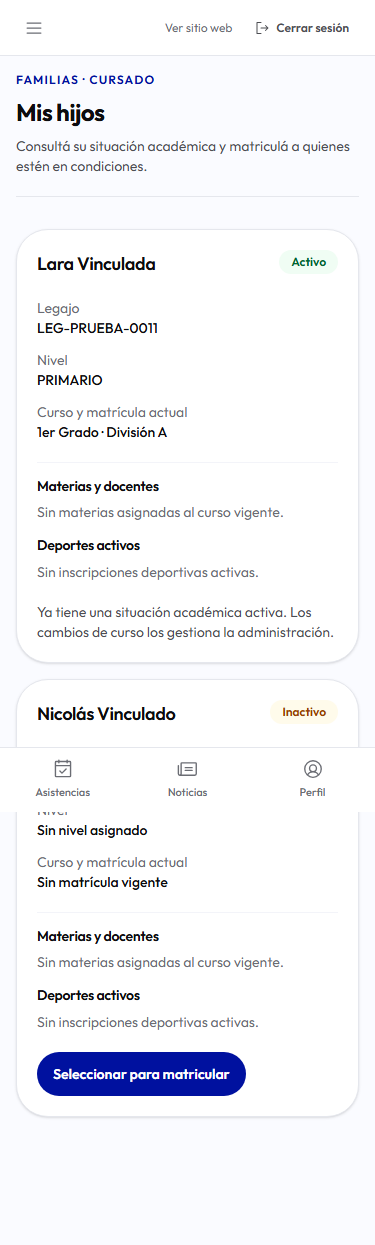
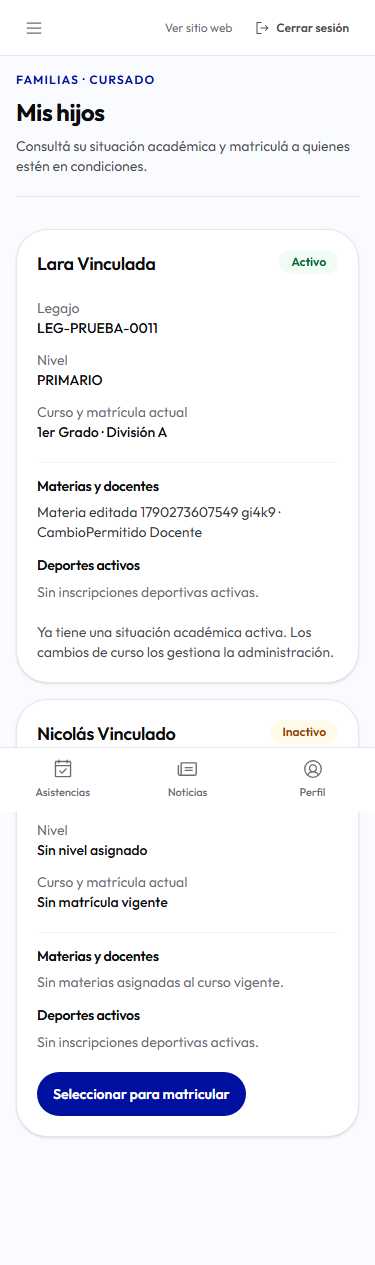
fix(seguridad): exigir rol padre vigente en políticas parentales

diff --git a/tests/hijos-auth.spec.ts b/tests/hijos-auth.spec.ts
@@ -1,4 +1,5 @@
 import { test, expect, request as crearContexto } from '@playwright/test'
+import { execFileSync } from 'node:child_process'
 import fs from 'node:fs'
 import path from 'node:path'
 
@@ -54,7 +55,23 @@ test.describe('PADRE autenticado', () => {
     await expect(dialogo.getByRole('heading', { name: 'Confirmar matrícula' })).toBeVisible()
     await expect(dialogo.getByText(/Después no podrás cambiar el curso/)).toBeVisible()
     await captura(page, '04-confirmacion')
+    let registrarRetencion: () => void = () => {}
+    let liberarSolicitud: () => void = () => {}
+    const solicitudRetenida = new Promise<void>((resolve) => { registrarRetencion = resolve })
+    const continuarSolicitud = new Promise<void>((resolve) => { liberarSolicitud = resolve })
+    await page.route('**/api/hijos/*/matricula', async (route) => {
+      registrarRetencion()
+      await continuarSolicitud
+      await route.continue()
+    })
     await dialogo.getByRole('button', { name: 'Confirmar matrícula' }).click()
+    try {
+      await solicitudRetenida
+      await expect(page.getByRole('status', { name: 'Estado de la matrícula' })).toContainText('Enviando')
+      await captura(page, '04b-envio-autenticado')
+    } finally {
+      liberarSolicitud()
+    }
     await expect(page.getByRole('status', { name: 'Estado de la matrícula' })).toContainText('confirmó')
     await captura(page, '05-exito')
     await page.reload()
@@ -95,9 +112,32 @@ test.describe('PADRE autenticado', () => {
       request.post(`/api/hijos/${hijo.id}/matricula`, { data: { curso_id: cursoId } }),
     ])
     expect(resultados.map((respuesta) => respuesta.status()).sort()).toEqual([201, 409])
+    const exitosa = resultados.find((respuesta) => respuesta.status() === 201)
+    if (!exitosa) throw new Error('Ninguna solicitud confirmó la matrícula.')
+    const confirmacion = await exitosa.json()
+    expect(confirmacion.matricula_id).toMatch(/^[0-9a-f-]{36}$/i)
     const despues = await request.get(`/api/hijos/${hijo.id}`)
     expect(despues.status()).toBe(200)
-    expect((await despues.json()).hijo.estado).toBe('ACTIVO')
+    const situacion = (await despues.json()).hijo
+    expect(situacion.estado).toBe('ACTIVO')
+    expect(situacion.matricula_id).toBe(confirmacion.matricula_id)
+    const curso = datos.cursos.find((item: { id: string }) => item.id === cursoId)
+    expect(situacion.curso_denominacion).toBe(curso.denominacion)
+    expect(situacion.curso_division).toBe(curso.division)
+    expect(situacion.nivel_nombre).toBe(curso.nivel.nombre)
+
+    // Consulta de solo lectura contra el contenedor descartable: el endpoint
+    // parental proyecta la matrícula vigente, no expone el historial completo.
+    if (process.env.EPT_SUPABASE_LOCAL !== '1') throw new Error('Se requiere la base local descartable.')
+    expect(hijo.id).toMatch(/^[0-9a-f-]{36}$/i)
+    const contenedor = process.env.EPT_SUPABASE_DB_CONTAINER ?? 'supabase_db_educar-para-transformar'
+    const filas = execFileSync('docker', [
+      'exec', '-i', contenedor, 'psql', '-X', '-q', '-t', '-A', '-U', 'postgres', '-d', 'postgres',
+      '-v', 'ON_ERROR_STOP=1', '-c',
+      `SELECT COALESCE(json_agg(json_build_object('id', id, 'curso_id', curso_id, 'fecha_cierre', fecha_cierre)), '[]'::json) FROM public.matriculas WHERE alumno_id = '${hijo.id}';`,
+    ], { encoding: 'utf8' }).trim()
+    const matriculas = JSON.parse(filas) as { id: string; curso_id: string; fecha_cierre: string | null }[]
+    expect(matriculas).toEqual([{ id: confirmacion.matricula_id, curso_id: cursoId, fecha_cierre: null }])
   })
 })
 

diff --git a/docs/evidence/EPT-13.md b/docs/evidence/EPT-13.md
@@ -26,7 +26,7 @@ Fuera de alcance: nuevas funciones administrativas de materias/deportes, cupos a
 | EPT-45 | Consulta aislada de hijos, matrícula, materia/docente y deporte | RLS consolidada, vista `security_invoker`, `consultar_detalle_hijo`, API GET |
 | EPT-46 | Selección, resumen, confirmación y activación atómica | UI `/dashboard/hijos`, POST y RPC `matricular_hijo` |
 | EPT-47 | Un solo curso vigente, duplicado, ajeno, rechazos de escritura | Bloqueo de alumno, índice único parcial de 008, SQL y POST concurrentes |
-| EPT-48 | Navegador real, API, SQL, tres perfiles visuales | Playwright autenticado y fixtures; 27 PNG |
+| EPT-48 | Navegador real, API, SQL, tres perfiles visuales | Playwright autenticado y fixtures; 28 PNG |
 | EPT-49 | Evidencia, seguridad, pruebas y retrospectiva | Este documento; Jira lo coordina el orquestador |
 
 Los criterios Jira quedan trazados así: (1) listado filtrado en PostgreSQL; (2) cursos activos listados y revalidados por trigger; (3) índice único de matrícula vigente; (4) estado y duplicado rechazados; (5) no enumeración de UUID ajeno; (6) visibilidad parental y administrativa. RF13/RF14/RF15/RF19 no se resuelven por ocultamiento visual: la base es la autoridad.
@@ -52,6 +52,7 @@ Los criterios Jira quedan trazados así: (1) listado filtrado en PostgreSQL; (2)
 |---|---|---|---|
 | PADRE vinculado | Solo sus hijos, matrícula vigente, materias del curso vigente y deporte ACTIVO | Sí, únicamente hijo apto y curso activo | No |
 | PADRE no vinculado | Ninguna fila; UUID existente e inexistente reciben respuesta opaca | No | No |
+| Ex-PADRE con vínculo saliente histórico y rol PERSONAL | Ningún legajo, matrícula, perfil del hijo, asistencia ni proyección académica por ese vínculo | No | No, tampoco alta/baja de inscripción deportiva heredada |
 | DIRECTOR | Conserva lectura administrativa académica | No por RPC parental; usa funciones académicas existentes | Solo según administración previa |
 | ESTUDIANTE | Conserva lectura de su propio legajo e historial | No por RPC parental | No |
 | DOCENTE, PERSONAL, sin perfil | No por endpoints parentales | No | No |
@@ -61,7 +62,7 @@ Amenazas cubiertas: falsificación de `padre_id` o estado, acceso a UUID ajeno, 
 
 ## 4. Migración, objetos, privilegios y rendimiento
 
-`padres_hijos` se conserva sin cambios. La migración 016 reemplaza, en cada una de `alumnos` y `matriculas`, dos políticas SELECT anteriores por una política compuesta: exactamente los predicados previos de DIRECTOR y ESTUDIANTE más `mis_hijos_ids()` del PADRE. Esto evita dos WARN nuevos de políticas permisivas múltiples sin ampliar permisos. No introduce RLS recursiva: los ayudantes existentes consultan el perfil y el vínculo bajo su contrato anterior.
+`padres_hijos` se conserva sin cambios. La migración 016 reemplaza, en cada una de `alumnos` y `matriculas`, dos políticas SELECT anteriores por una política compuesta: exactamente los predicados previos de DIRECTOR y ESTUDIANTE más **rol vigente PADRE y** `mis_hijos_ids()` conjuntamente. Esto evita dos WARN nuevos de políticas permisivas múltiples sin ampliar permisos. Además, sustituye hacia adelante cuatro políticas parentales de 011 —SELECT de `perfiles` y `asistencias`, INSERT y DELETE de `inscripciones`— para exigir el mismo rol PADRE vigente sin alterar sus predicados de vínculo ni las políticas de otros actores. Esta condición adicional es necesaria: `mis_hijos_ids()` de 011 verifica la identidad, no el rol, y un vínculo saliente histórico puede sobrevivir a un cambio de rol. No introduce RLS recursiva: los ayudantes existentes consultan el perfil y el vínculo bajo su contrato anterior.
 
 RLS está habilitada en ambas tablas, pero no forzada para el propietario (`relforcerowsecurity=false`), igual que en 008: las RPC `SECURITY DEFINER` necesitan efectuar la transacción con autoridad controlada, mientras que todos los roles cliente continúan sujetos a políticas y grants. Activar FORCE en esta unidad alteraría funciones administrativas previas; no se hizo.
 
@@ -86,9 +87,9 @@ Todos los comandos se ejecutaron en `E:\Escritorio\codigo\MetodologiaTPI-ept13` 
 | Comando o comprobación | Resultado |
 |---|---|
 | `npx.cmd supabase start` | exit 0; sin registrar secretos de su salida |
-| `npx.cmd supabase db reset --local` | exit 0; migraciones 001–016, repetido tras consolidar RLS |
+| `npx.cmd supabase db reset --local` | exit 0; migraciones 001–016, repetido obligatoriamente después de la corrección final de seis políticas parentales |
 | `npx.cmd supabase migration list --local` | exit 0; 001–016 local/remoto local coinciden |
-| SQL `inscripcion_hijos_rls.sql` | exit 0, termina en ROLLBACK; vínculo, otro padre, no perfil, rol, anónimo, curso, estado, duplicado, grants, detalle y Director |
+| SQL `inscripcion_hijos_rls.sql` | exit 0, termina en ROLLBACK; vínculo, otro padre, **ex-PADRE con vínculo saliente y rol PERSONAL** sin lectura de alumno/matrícula/vistas/perfil/asistencia ni alta/baja de inscripción, restauración del rol, no perfil, anónimo, curso, estado, duplicado, grants, detalle y Director |
 | SQL `alumnos_academicos_rls.sql` | exit 0; 69 aserciones OK |
 | SQL `cursos_rls.sql` | exit 0; 39 OK |
 | SQL `usuarios_alta_atomica.sql` | exit 0; 23 OK |
@@ -97,13 +98,14 @@ Todos los comandos se ejecutaron en `E:\Escritorio\codigo\MetodologiaTPI-ept13` 
 | `node supabase/tests/alumnos_academicos_concurrencia.mjs` | exit 0; 8 carreras/casos |
 | `node supabase/tests/tipos-generados.mjs --escribir` y verificación sin flag | exit 0 ambos; salida determinista y tipos reconciliados |
 | `npx.cmd supabase db lint --local --schema public,app_private --level warning --fail-on error` | exit 0, sin errores de esquema |
-| `npx.cmd supabase db advisors --local --type all --level info --fail-on none --output-format json` | exit 0; 12 INFO, 10 WARN tras consolidación, **0 WARN nuevos** |
+| `npx.cmd supabase db advisors --local --type all --level info --fail-on none --output-format json` | exit 0; 12 INFO, 10 WARN tras la corrección de rol en base recién reiniciada, **0 WARN nuevos** |
 | `npx.cmd tsc --noEmit --incremental false` | exit 0 |
 | `npm.cmd run build` | exit 0, Next.js 16.3.3 |
 | `node supabase/tests/harness_produccion.mjs` | exit 0; banco `/pruebas-ui/hijos` 404 exacto |
 | `npm.cmd run test:e2e` | exit 0; 359 passed, 1 skipped |
 | `EPT_SUPABASE_LOCAL=1 npx.cmd playwright test --config=playwright.config.ts --reporter=dot` | exit 0; 595 passed, 1 skipped **después** de consolidar RLS (8,8 min) |
-| `EPT_SUPABASE_LOCAL=1 npx.cmd playwright test tests/hijos-auth.spec.ts --project=chromium-padre --project=chromium-padre-segundo --reporter=dot` | exit 0; 18 passed tras agregar y comprobar la captura administrativa auténtica |
+| `EPT_SUPABASE_LOCAL=1 npx.cmd playwright test tests/hijos-auth.spec.ts --project=chromium-padre --project=chromium-padre-segundo --reporter=dot` | exit 0; 18 passed (30,9 s) tras la corrección final de RLS, con conteo real de matrículas y captura auténtica de envío |
+| `EPT_SUPABASE_LOCAL=1 npx.cmd playwright test --config=playwright.config.ts --retries=0 --reporter=dot` | exit 0; **595 passed, 1 skipped, 0 reintentos** (9,4 min), después del reset y corrección final de seis ramas RLS |
 | ESLint focalizado sobre todos los TS/TSX modificados | exit 0 |
 | `npm.cmd run lint -- --no-cache` | exit 1; 15 errores y 108 avisos del conjunto preexistente, cero errores nuevos frente a base verificada |
 | `npm.cmd audit --json` | exit 1 por 6 avisos no críticos restantes; 0 críticos y ninguna entrada `next` |
@@ -111,25 +113,27 @@ Todos los comandos se ejecutaron en `E:\Escritorio\codigo\MetodologiaTPI-ept13` 
 | `git diff --check` | exit 0; sin errores de espacios |
 | `rg` de secretos y atribución en archivos nuevos | exit 1 (sin coincidencias); el setup local usa credenciales sintéticas fuera de la aplicación productiva |
 
-La prueba real de concurrencia parental envía dos POST simultáneos al mismo hijo: una respuesta 201 y una 409, exactamente una matrícula y estado ACTIVO al releer. Los rechazos SQL ocurren en subtransacciones dentro de un ROLLBACK; se comprueban estado y número de matrículas sin efectos parciales. El navegador autenticado cubre padre 1, padre 2, Director, Estudiante, Docente, Personal, anónimo y sin perfil, además de confirmación, persistencia tras recarga, foco, móvil, mensajes y ausencia de controles destructivos.
+La prueba real de concurrencia parental envía dos POST simultáneos al mismo hijo: una respuesta 201 y una 409. Relee la API y compara estado ACTIVO, ID de matrícula, curso, división y nivel con la confirmación; además, consulta **en modo solo lectura el contenedor PostgreSQL local descartable** para exigir exactamente una fila de matrícula, con ese ID y ese curso, sin cierre. No usa `service_role` ni accede a una base remota. Los rechazos SQL ocurren en subtransacciones dentro de un ROLLBACK; se comprueban estado y número de matrículas sin efectos parciales. El navegador autenticado cubre padre 1, padre 2, Director, Estudiante, Docente, Personal, anónimo y sin perfil, además de confirmación, persistencia tras recarga, foco, móvil, mensajes y ausencia de controles destructivos.
 
 ### Fallos preexistentes y seguridad de dependencias
 
 El lint global de la línea base descartable informó 15 errores/109 avisos; el candidato 15/108, sin nueva ubicación/regla de error. El primer intento de `deportes_rls.sql` después de la suite autenticada encontró grupos E2E residuales; se reinició la base local y la prueba pasó 59/59: no era un defecto del candidato. La primera ejecución de `usuarios_alta_atomica.sql` con `postgres` fue inválida para ese arnés; repetida con el superusuario local `supabase_admin`, pasó 23/23. Estos intentos fallidos no se ocultan.
 
+En la primera repetición global tras la corrección del rol (exit 0, 594 aprobadas, 1 omitida, 1 flaky), `alumnos-contraste.spec.ts:364` falló en el primer intento de medición de la cuarta línea y pasó en el reintento. No se modificó esa auditoría ajena a EPT-13. La repetición focalizada `npx.cmd playwright test tests/alumnos-contraste.spec.ts --project=chromium --grep 'mide todas las líneas' --repeat-each=3 --retries=0 --reporter=list` pasó 3/3, exit 0. La suite global **final**, ejecutada una sola vez sobre los bytes corregidos y con reintentos desactivados, pasó 595/595 y mantuvo una omisión declarada.
+
 `npm audit` sobre Next 16.2.5 señaló las vulnerabilidades críticas `GHSA-p293-qw3h-jr36` (RCE en servidor Windows) y `GHSA-2xp9-vwfh-vxw4` (RCE vía AVIF). Con autorización explícita se actualizó `next` y `eslint-config-next` a 16.3.3. `npm audit --json` posterior: **0 críticas**, 4 altas, 1 moderada, 1 baja; ninguna entrada `next`. `npm audit --omit=dev --audit-level=critical` sale 0 pero informa dos vulnerabilidades no críticas de dependencias transitivas (`ws` alta, `baseline-browser-mapping` moderada), fuera de la ampliación autorizada. Requieren triage posterior; no se declara la cadena libre de riesgo.
 
-Los advisors restantes (10 WARN) son anteriores a 016: uno `auth_rls_initplan` en `perfiles`, cinco `multiple_permissive_policies` en `asistencias`, `inscripciones`, `inscripciones_servicios` y `perfiles`, dos `function_search_path_mutable` heredados y dos `rls_policy_always_true` de inserción pública heredada. Los INFO del estado recién reiniciado son 2 FK sin índice y 10 índices sin uso observado; el conteo de estos últimos fluctúa al correr pruebas (en una consulta posterior: 7 índices sin uso, total 9 INFO). Antes de consolidar RLS aparecían dos WARN adicionales en `alumnos` y `matriculas`; ya no aparecen. Ningún aviso nuevo permanece.
+Los advisors restantes (10 WARN) son anteriores a 016: uno `auth_rls_initplan` en `perfiles`, cinco `multiple_permissive_policies` en `asistencias`, `inscripciones`, `inscripciones_servicios` y `perfiles`, dos `function_search_path_mutable` heredados y dos `rls_policy_always_true` de inserción pública heredada. Los INFO del estado recién reiniciado son 2 FK sin índice y 10 índices sin uso observado; el conteo de estos últimos fluctúa al correr pruebas (en una consulta anterior: 7 índices sin uso, total 9 INFO). Antes de consolidar RLS aparecían dos WARN adicionales en `alumnos` y `matriculas`; ya no aparecen. Los cinco WARN de políticas múltiples no son causados por 016: proceden de la superposición de políticas de otros actores en 011. Esta corrección acotada preserva esas políticas, modifica únicamente las cuatro ramas parentales y no amplía permisos. Ningún aviso nuevo permanece.
 
 ## 7. Capturas y privacidad
 
-Directorio: `docs/evidence/EPT-13/` (27 PNG). Las capturas `01-` a `07-` proceden de una sesión **PADRE autenticada por el formulario real**: escritorio, hijo apto, cursos, confirmación, éxito, recarga persistente y móvil 375 px. La `08-padre-sin-hijos.png` corresponde a un **segundo PADRE autenticado** sin vínculo, y `09-directora-matricula-visible.png` a la **DIRECTORA autenticada** en `/dashboard/alumnos` después de la matrícula. Estas nueve capturas demuestran autorización, operación, persistencia y visibilidad administrativa, no solo apariencia. Las 18 capturas `fixture-<perfil>-` cubren seis estados visuales en Chromium, Pixel 5 Chromium y iPhone 13 WebKit: carga, vacío, apto/activo, ausencia de cursos, error de dominio simulado y foco visible. Las fixtures **solo prueban presentación**. Todos los nombres, DNI y correos de pruebas son sintéticos; las capturas no incluyen secretos, tokens ni información productiva.
+Directorio: `docs/evidence/EPT-13/` (28 PNG). Las capturas `01-` a `07-` y `04b-envio-autenticado.png` proceden de una sesión **PADRE autenticada por el formulario real**: escritorio, hijo apto, cursos, confirmación, envío, éxito, recarga persistente y móvil 375 px. Para capturar el envío real, Playwright retiene temporalmente el POST autenticado, comprueba el estado «Enviando…», toma la imagen y libera la **misma petición**, que concluye exitosamente; no es un fixture ni una respuesta simulada. La `08-padre-sin-hijos.png` corresponde a un **segundo PADRE autenticado** sin vínculo, y `09-directora-matricula-visible.png` a la **DIRECTORA autenticada** en `/dashboard/alumnos` después de la matrícula. Estas diez capturas demuestran autorización, operación, persistencia y visibilidad administrativa, no solo apariencia. Las 18 capturas `fixture-<perfil>-` cubren seis estados visuales en Chromium, Pixel 5 Chromium y iPhone 13 WebKit: carga, vacío, apto/activo, ausencia de cursos, error de dominio simulado y foco visible. Las fixtures **solo prueban presentación**. Todos los nombres, DNI y correos de pruebas son sintéticos; las capturas no incluyen secretos, tokens ni información productiva.
 
 ## 8. Riesgos, reversión y retrospectiva
 
 Riesgo residual: avisos de dependencias transitivas no críticos; lint global preexistente; advisor heredado. El cambio de RLS, las RPC y la API se deben revisar como un único candidato: revertir parcialmente solo la UI dejaría una superficie incoherente. Antes de producción, un rollback de código necesita revertir la migración mediante otra migración hacia adelante que restaure las políticas SELECT de 008/009 y retire las dos RPC; **no** se borra ni revierte físicamente una matrícula ya creada. La reversión de Next.js a 16.2.5 reintroduciría dos críticas y no es aceptable.
 
-Retrospectiva: la tabla parental ya existía y recrearla habría sido destructivo; la autorización real debía cerrar tanto API como RLS. El estado ACTIVO y la matrícula vigente se validan por separado porque la corrupción no debe habilitar una segunda alta. El arnés de deportes de 015 exige horario incluso en fixtures. La limpieza E2E debe borrar primero `grupos_deportivos_horarios` para respetar FK RESTRICT. Próxima unidad dependiente: revisión humana de EPT-13 y de la evidencia, PR/merge autorizados y verificación posterior; no se inicia EPT-57 ni otras historias en esta unidad.
+Retrospectiva: la tabla parental ya existía y recrearla habría sido destructivo; la autorización real debía cerrar tanto API como RLS. Una revisión independiente detectó que el vínculo histórico no implica conservar el rol PADRE: las seis ramas parentales de lectura o escritura confiaban solo en `mis_hijos_ids()`, que no valida rol. La condición de rol vigente y la prueba de cambio de rol corrigen esa causa sin modificar la función de 011. Se usó PERSONAL como rol negativo porque DOCENTE conserva lectura legítima por políticas de personal y no aislaría el permiso parental. La misma revisión exigió medir la fila final de la carrera, no inferirla solo de 201/409, y capturar el envío en sesión real. El estado ACTIVO y la matrícula vigente se validan por separado porque la corrupción no debe habilitar una segunda alta. El arnés de deportes de 015 exige horario incluso en fixtures. La limpieza E2E debe borrar primero `grupos_deportivos_horarios` para respetar FK RESTRICT. Próxima unidad dependiente: revisión humana de EPT-13 y de la evidencia, PR/merge autorizados y verificación posterior; no se inicia EPT-57 ni otras historias en esta unidad.
 
 ## 9. Commits funcionales y entrega
 
@@ -138,5 +142,7 @@ Retrospectiva: la tabla parental ya existía y recrearla habría sido destructiv
 | 1 | `72f4a9a4a4c9c5b5530e4802a8dce48f82bb3e87` | Persistencia, RLS/RPC, tipos y prueba SQL |
 | 2 | `61758ba5012f1c0941c12ec88c46180ca3aa78a4` | API, interfaz, identidades y pruebas de navegador |
 | 3 | `17124dc4c76b1131df6c008bf9d46cb07a6bd1e5` | Corrección de Next.js y eslint-config-next |
+| 4 | `17d6df3bf1206a1231ad8f9dcf2d6c34611ff028` | Evidencia inicial y 27 capturas |
+| 5 | HEAD de esta corrección | Rol PADRE vigente en seis ramas RLS, pruebas reforzadas y captura real de envío |
 
-Este documento y las capturas forman el cuarto commit. No se realizó push, PR, merge, despliegue ni cambio en producción. EPT-13 permanece En curso hasta revisión e integración.
+El SHA completo del quinto commit se informa en la entrega, ya que un documento no puede contener el hash de su propio commit sin alterarlo. No se realizó push, PR, merge, despliegue ni cambio en producción. EPT-13 permanece En curso hasta revisión e integración.
